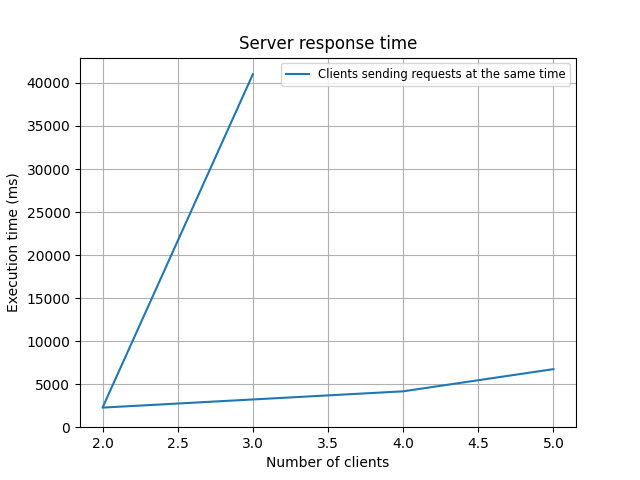
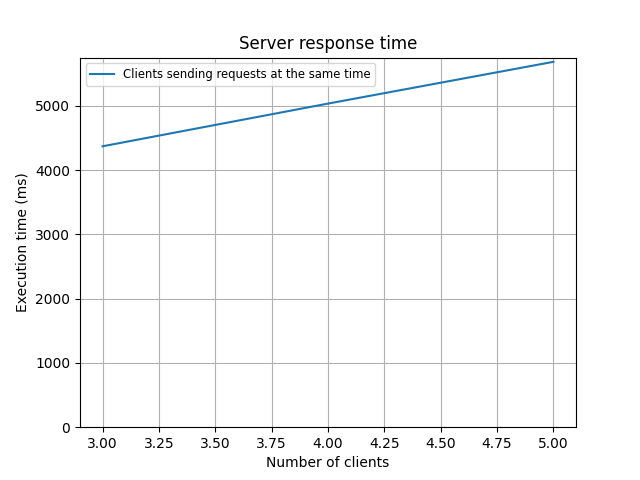
refactoring + improving measurement for server delay

diff --git a/Client.java b/Client.java
@@ -12,21 +12,13 @@ import java.security.spec.InvalidKeySpecException;
 class Client implements Runnable{
 
     private final int n;
-    private int clientNumber;
-    private final String host;
-    private final int port;
-    private final String filename;
-    private final String printfile;
+    private final File inputFile;
     private final int minPasswordLength;
     private final int maxPasswordLength;
 
-    Client(int n, int clientNumber, String host, int port, String filename, String printfile, int minPasswordLength, int maxPasswordLength){
+    Client(int n, File inputFile, int minPasswordLength, int maxPasswordLength){
         this.n = n;
-        this.clientNumber = clientNumber;
-        this.host = host;
-        this.port = port;
-        this.filename = filename;
-        this.printfile = printfile;
+        this.inputFile = inputFile;
         this.minPasswordLength = minPasswordLength;
         this.maxPasswordLength = maxPasswordLength;
     }
@@ -43,16 +35,12 @@ class Client implements Runnable{
         //int wait = getRandomNumber(0, 10000);
         //try {Thread.sleep(wait);}
         //catch (InterruptedException e){e.printStackTrace();}
-        long responseTime = -1;
         int passwordLength = -1;
-        long fileLength = -1;
         try {
             passwordLength = getRandomNumber(minPasswordLength, maxPasswordLength);
             String password = generatePassword(passwordLength);
             SecretKey keyGenerated = CryptoUtils.getKeyFromPassword(password);
 
-            File inputFile = new File(filename);
-            fileLength = inputFile.length();
             File encryptedFile = new File("client\\test_file-encrypted-client"+n+".pdf");
             File decryptedClient = new File("client\\test_file-decrypted-client"+n+".pdf");
 
@@ -60,7 +48,7 @@ class Client implements Runnable{
             CryptoUtils.encryptFile(keyGenerated, inputFile, encryptedFile);
 
             // Creating socket to connect to server (in this example it runs on the localhost on port 3333)
-            Socket socket = new Socket(host, port);
+            Socket socket = new Socket("localhost", 3333);
 
             // For any I/O operations, a stream is needed where the data are read from or written to. Depending on
             // where the data must be sent to or received from, different kind of stream are used.
@@ -70,11 +58,10 @@ class Client implements Runnable{
             DataInputStream inSocket = new DataInputStream(socket.getInputStream());
 
             // SEND THE PROCESSING INFORMATION AND FILE
-            long start = System.currentTimeMillis();
             byte[] hashPwd = Main.hashSHA1(password);
             int pwdLength = password.length();
             long file_Length = encryptedFile.length();
-            System.out.println("SENT TO SERVER :" + password);
+            System.out.println("SENT TO SERVER");
             Main.sendRequest(out, hashPwd, pwdLength, file_Length);
             out.flush();
 
@@ -84,10 +71,7 @@ class Client implements Runnable{
             OutputStream outFile = new FileOutputStream(decryptedClient);
             long fileLengthServer = inSocket.readLong();
             FileManagement.receiveFile(inSocket, outFile, fileLengthServer);
-            System.out.println("DECRYPTED " + n);
-
-            long end = System.currentTimeMillis();
-            responseTime = end - start;
+            System.out.println("DECRYPTED");
 
             out.close();
             outSocket.close();
@@ -99,23 +83,6 @@ class Client implements Runnable{
         } catch (IOException | InvalidAlgorithmParameterException | NoSuchPaddingException | IllegalBlockSizeException
                 | NoSuchAlgorithmException | BadPaddingException | InvalidKeyException | InvalidKeySpecException e){
             e.printStackTrace();
-        }
-        BufferedWriter writer = null;
-        try {
-            File print = new File(printfile);
-            writer = new BufferedWriter(new FileWriter(print, true));
-            if (responseTime != -1){writer.write(String.format("%s, %s, %s, %s\n", this.clientNumber, fileLength, responseTime, passwordLength));}
-        } catch (Exception e){
-            e.printStackTrace();
-        }
-        finally {
-            try {
-                // Close the writer regardless of what happens...
-                assert writer != null;
-                writer.close();
-            } catch (Exception e){
-                e.printStackTrace();
-            }
         }
     }
 }

diff --git a/Main.java b/Main.java
@@ -1,5 +1,4 @@
-import java.io.DataOutputStream;
-import java.io.IOException;
+import java.io.*;
 import java.security.MessageDigest;
 import java.security.NoSuchAlgorithmException;
 import java.util.Scanner;
@@ -35,33 +34,97 @@ public class Main {
     }
 
     public static void main(String[] args) {
+
+        File inputFile = new File("test_file.pdf");
+        long fileLength = inputFile.length();
+
         System.out.println("Enter a password size... (or -1 for pool of client)");
         while(true){
+            long responseTime = -1;
+
             Scanner sc = new Scanner(System.in);
             //Only int input
             while (!sc.hasNextInt()) sc.next();
             int i = sc.nextInt();
             if (i==-1){break;}
-            System.out.println("One password of length "+i +" generated");
+
             ExecutorService executor = Executors.newFixedThreadPool(1);
-            Runnable cli = new Client(1, 1, "localhost", 3333, "test_file.pdf", "graphs/onepassword.txt", i, i);
+            System.out.println("One password of length "+i +" generated");
+
+            long start = System.currentTimeMillis();
+            Runnable cli = new Client(1, inputFile, i, i);
             executor.execute(cli);
             executor.shutdown();
+
+            while (!executor.isTerminated()) {}
+
+            long end = System.currentTimeMillis();
+            responseTime = end - start;
+
+            BufferedWriter writer = null;
+            try {
+                File print = new File("graphs/perfPwdLen.txt");
+                writer = new BufferedWriter(new FileWriter(print, true));
+                if (responseTime != -1){writer.write(String.format("%s, %s, %s, %s\n",1, fileLength, responseTime, i));}
+                responseTime = 0;
+            } catch (Exception e){
+                e.printStackTrace();
+            }
+            finally {
+                try {
+                    // Close the writer regardless of what happens...
+                    assert writer != null;
+                    writer.close();
+                } catch (Exception e){
+                    e.printStackTrace();
+                }
+            }
         }
         System.out.println("Enter number of client request... (or -1 to exit)");
         while (true){
+            long responseTime = -1;
+            int pwdlen = 3;
+
             Scanner sc = new Scanner(System.in);
+
             //Only int input
             while (!sc.hasNextInt()) sc.next();
             int k = sc.nextInt();
             if (k==-1){break;}
+
             ExecutorService executor = Executors.newFixedThreadPool(k);
             System.out.println("Pool of " + k + " clients generated");
+
+            long start = System.currentTimeMillis();
             for (int i = 0; i < k; i++){
-                Runnable cli = new Client(i, k, "localhost", 3333, "test_file.pdf", "graphs/poolpassword.txt", 5, 5);
+                Runnable cli = new Client(i, inputFile, pwdlen, pwdlen);
                 executor.execute(cli);
             }
             executor.shutdown();
+
+            while (!executor.isTerminated()) {}
+
+            long end = System.currentTimeMillis();
+            responseTime = end - start;
+
+            BufferedWriter writer = null;
+            try {
+                File print = new File("graphs/perfPoolTime.txt");
+                writer = new BufferedWriter(new FileWriter(print, true));
+                if (responseTime != -1){writer.write(String.format("%s, %s, %s, %s\n", k, fileLength, responseTime, pwdlen));}
+                responseTime = 0;
+            } catch (Exception e){
+                e.printStackTrace();
+            }
+            finally {
+                try {
+                    // Close the writer regardless of what happens...
+                    assert writer != null;
+                    writer.close();
+                } catch (Exception e){
+                    e.printStackTrace();
+                }
+            }
         }
 
     }

diff --git a/plot.py b/plot.py
@@ -3,7 +3,7 @@ import matplotlib.pyplot as plt
 import numpy.polynomial.polynomial as poly
 from scipy.interpolate import CubicSpline as CS
 
-files = ["graphs/poolpassword.txt", "graphs/onepassword.txt", "graphs/simplebruteforce.txt", "graphs/improvedbruteforce.txt", "graphs/printfile_pass_opti.txt", "graphs/printfile.txt"]
+files = ["graphs/perfPoolTime.txt", "graphs/perfPwdLen.txt", "graphs/simplebruteforce.txt", "graphs/improvedbruteforce.txt", "graphs/printfile_pass_opti.txt", "graphs/printfile.txt"]
 titles = ["Server response time", "Password bruteforce execution time"]
 x_axis = 'Number of clients'
 X_axis2 = 'Password length'
@@ -22,16 +22,14 @@ def get_data(dictionary, file):
         measures = f.read().splitlines()
 
     for m in measures:
-        tn, fs, tim, pl = m.split(", ")
-        thread_number = int(tn)
-        file_length = int(fs)
-        time = int(tim)
-        password_length = int(pl)
+        client, size, time, length = m.split(", ")
 
-        l = dictionary.get(thread_number, [])
-        l.append((file_length, time, password_length))
-        # print(l)
-        dictionary[thread_number] = l
+        thread_number = int(client)
+        file_length = int(size)
+        time = int(time)
+        password_length = int(length)
+
+        dictionary[thread_number] = [file_length,time,password_length]
 
 def get_data2(dictionary, file):
     with open(file) as f:
@@ -45,44 +43,23 @@ def get_data2(dictionary, file):
         l = dictionary.get(password_length, time)
         dictionary[password_length] = l
 
-d1 = {}
-d2 = {}
-d3 = {}
-d4 = {}
-x3 = linspace(1, 100, 10000)
-
-#sort before showing in graphs
-get_data(d1, files[0])
-sorted_values1 = sorted(d1.values()) # Sort the values
-sorted_dict1 = {}
-sortarrays(sorted_values1,sorted_dict1,d1)
-
-get_data(d2, files[1])
-sorted_values2 = sorted(d2.values()) # Sort the values
-sorted_dict2 = {}
-sortarrays(sorted_values2,sorted_dict2,d2)
-
-get_data2(d3, files[2])
-sorted_values = sorted(d3.values()) # Sort the values
-sorted_dict = {}
-sortarrays(sorted_values,sorted_dict,d3)
-
-get_data2(d4, files[3])
-sorted_values3 = sorted(d4.values()) # Sort the values
-sorted_dict3 = {}
-sortarrays(sorted_values3,sorted_dict3,d4)
-
 def make_plot(table, title,name,lab):
+    plt.figure()
     x = list(table.keys())
     y = []
-    for key in table.keys():
-        length = 0
-        sum = 0
-        for measure in table.get(key):
-            (fs, tim, pl) = measure
-            sum += tim
-            length += 1
+    length = 0
+    sum = 0
+    for measure in table:
+        #print(measure)
+        #print(table[measure])
+        fs = table[measure][0]
+        tim = table[measure][1]
+        pl = table[measure][2]
+
+        sum += tim
+        length += 1
         y.append(sum/length)
+
     plt.plot(x, y, label=lab)
     plt.title(title)
     plt.ylabel(y_axis)
@@ -94,6 +71,7 @@ def make_plot(table, title,name,lab):
     plt.close()
 
 def make_plot2(table,table1, title,name):
+    plt.figure()
     x = []
     y = []
     x1 = []
@@ -101,9 +79,11 @@ def make_plot2(table,table1, title,name):
     for e in table:
         x.append(e)
         y.append(table[e])
+
     for e in table1:
             x1.append(e)
             y1.append(table1[e])
+
     plt.plot(x, y, label='Basic bruteforce', color='orange')
     plt.plot(x1, y1, label='Improved bruteforce', color='blue')
     plt.title(title)
@@ -115,8 +95,20 @@ def make_plot2(table,table1, title,name):
     plt.savefig(name)
     plt.close()
 
+d1 = {}
+d2 = {}
+d3 = {}
+d4 = {}
+
+#Make graph server delay
+get_data(d1, files[0])
+get_data(d2, files[1])
 make_plot(d1,titles[0],names[0],'Clients sending requests at the same time')
 make_plot(d2,titles[0],names[1],'Clients requests delayed')
+
+## Make graph bruteforce time
+get_data2(d4, files[3])
+get_data2(d3, files[2])
 make_plot2(d3,d4,titles[1],names[2])
 
-print("Graphs generated in graphs directory")
+print("Graphs are generated in graphs directory")

diff --git a/ServerMainImproved.java b/ServerMainImproved.java
@@ -48,9 +48,6 @@ public class ServerMainImproved{
         // Template file from client
         File networkFile = new File("temp-server.pdf");
         int i = 0;
-
-        InetAddress addr =  InetAddress.getByName("java.sun.com");
-        System.out.println(addr.getHostAddress());
         // Server initialization
         ServerSocket ss = new ServerSocket(3333);
         System.out.println("Waiting connection");

diff --git a/ServerMain.java b/ServerMain.java
@@ -14,7 +14,7 @@ import java.util.Arrays;
 
 public class ServerMain{
 
-    public static void main(String[] args) throws IOException, InterruptedException {
+    public static void main(String[] args) throws IOException {
 
         // Server initialization
         ServerSocket ss = new ServerSocket(3333,10);
